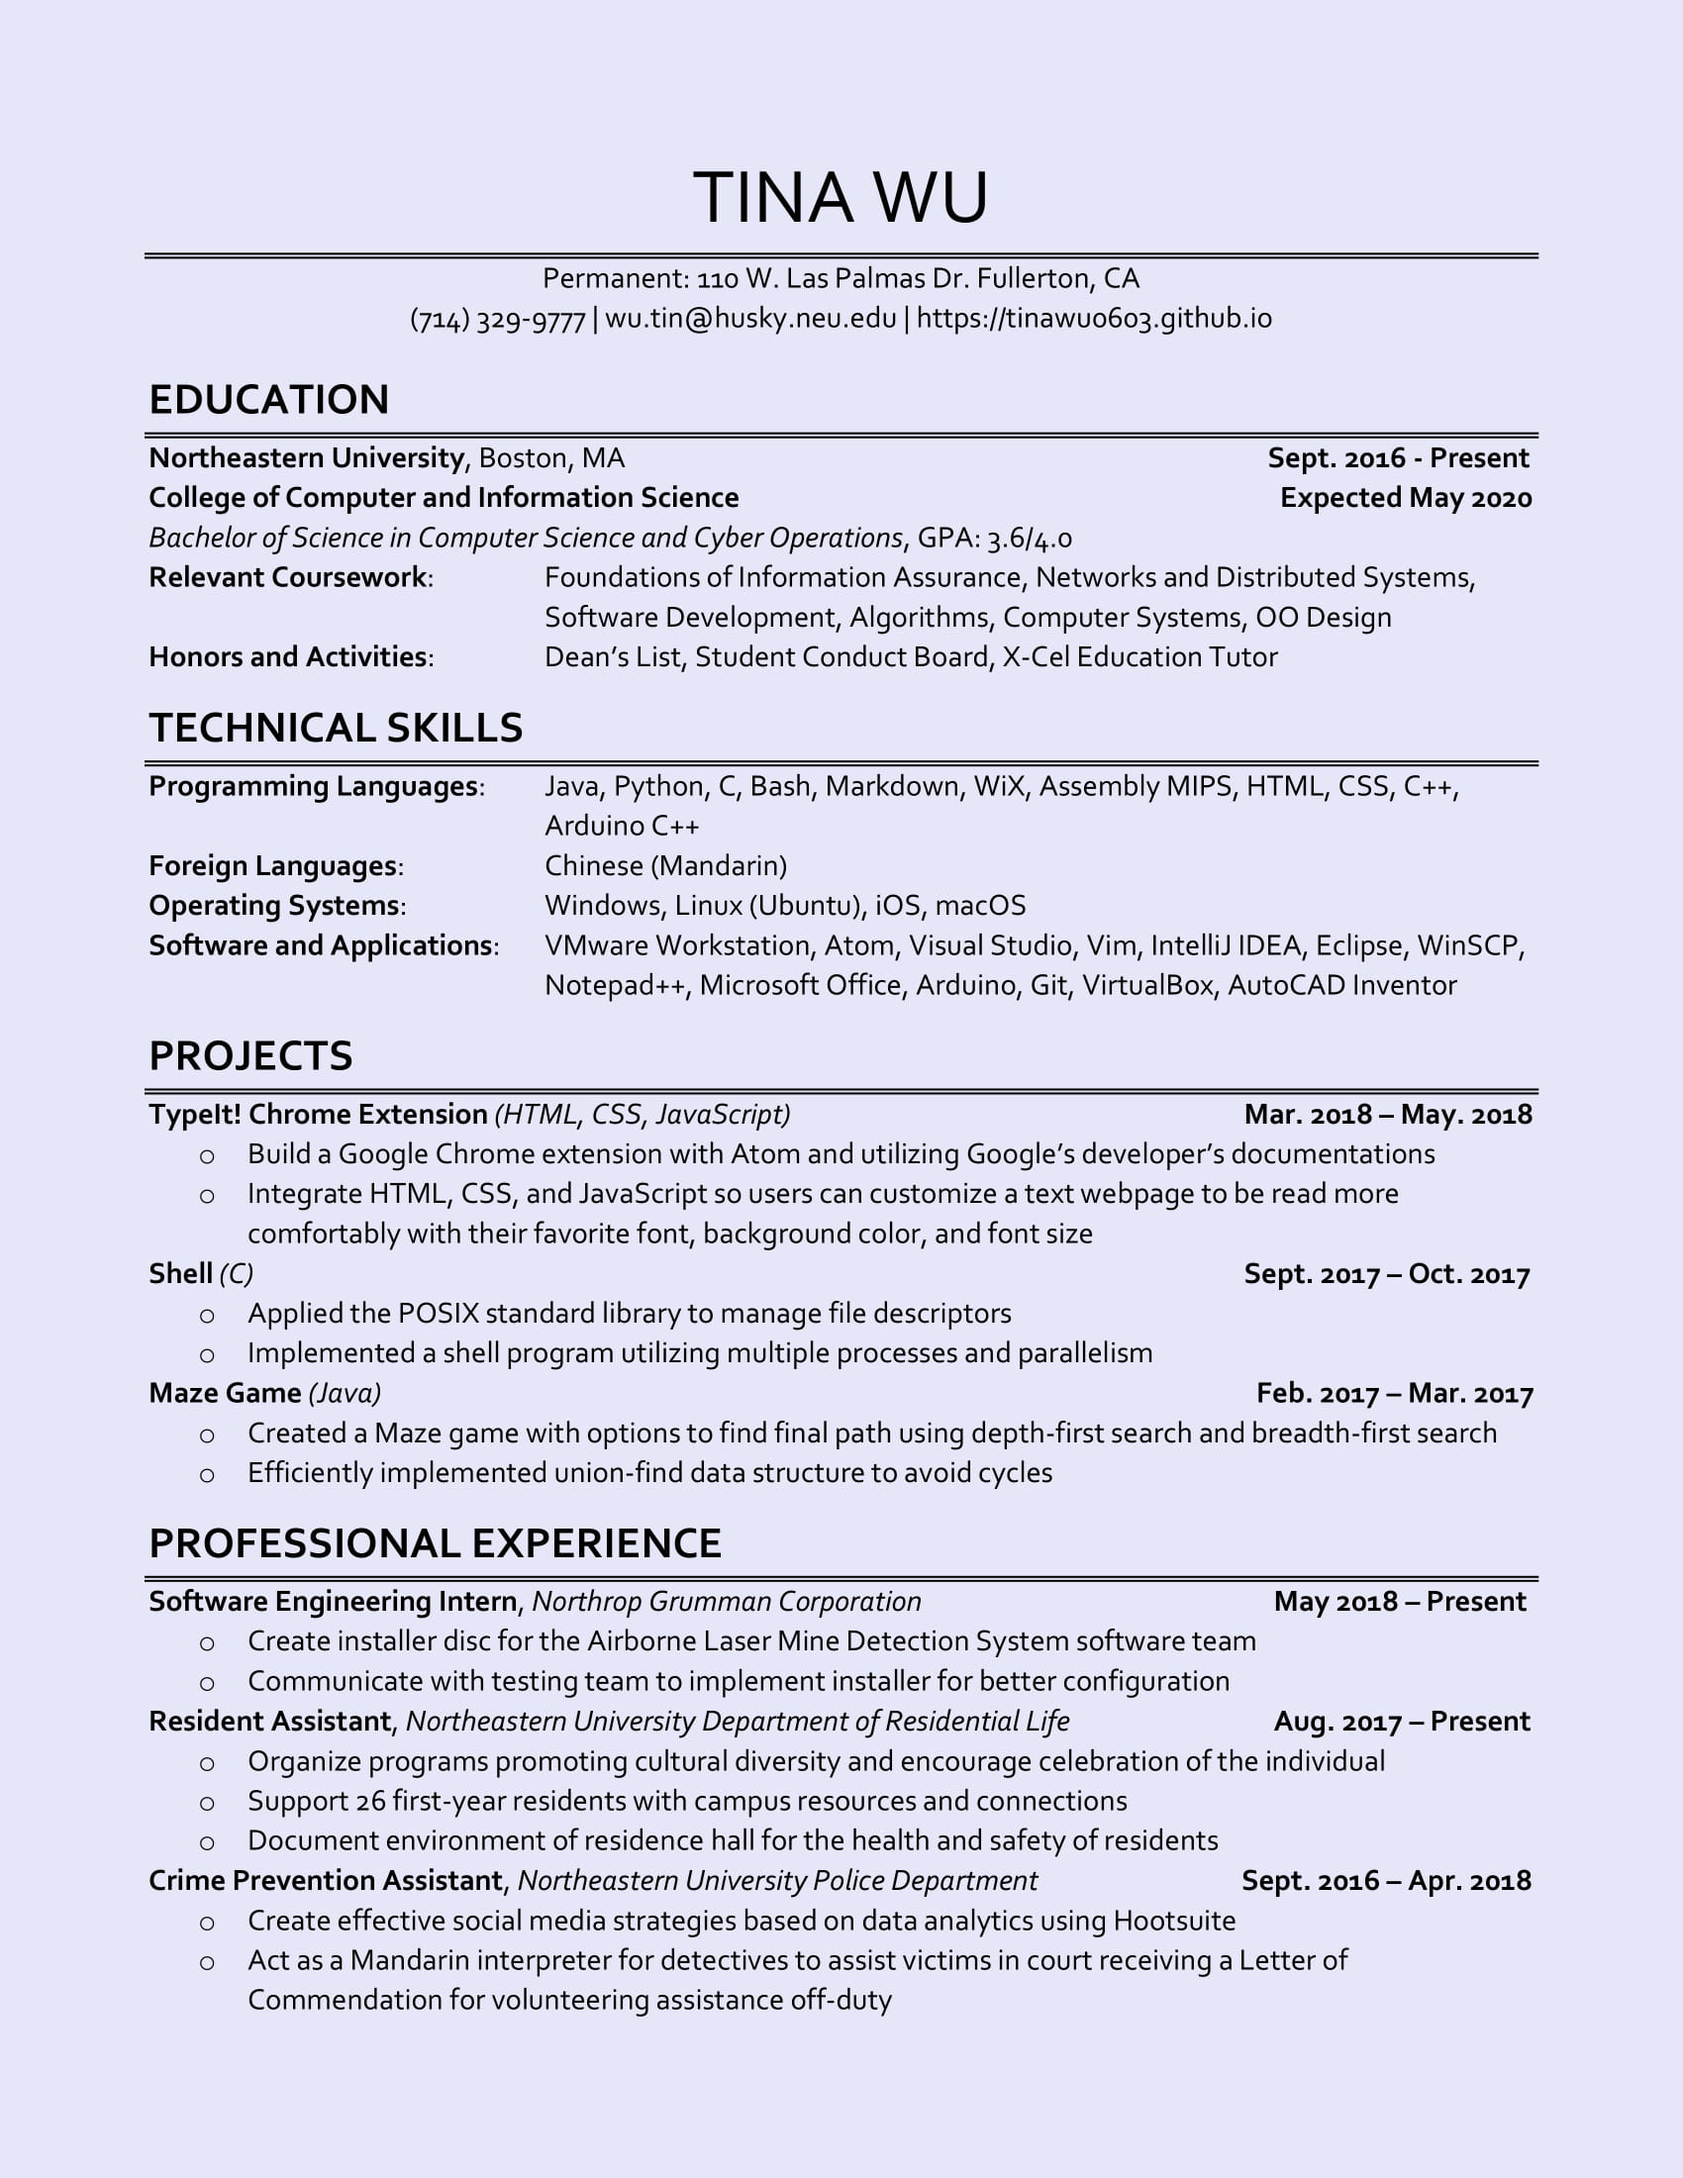
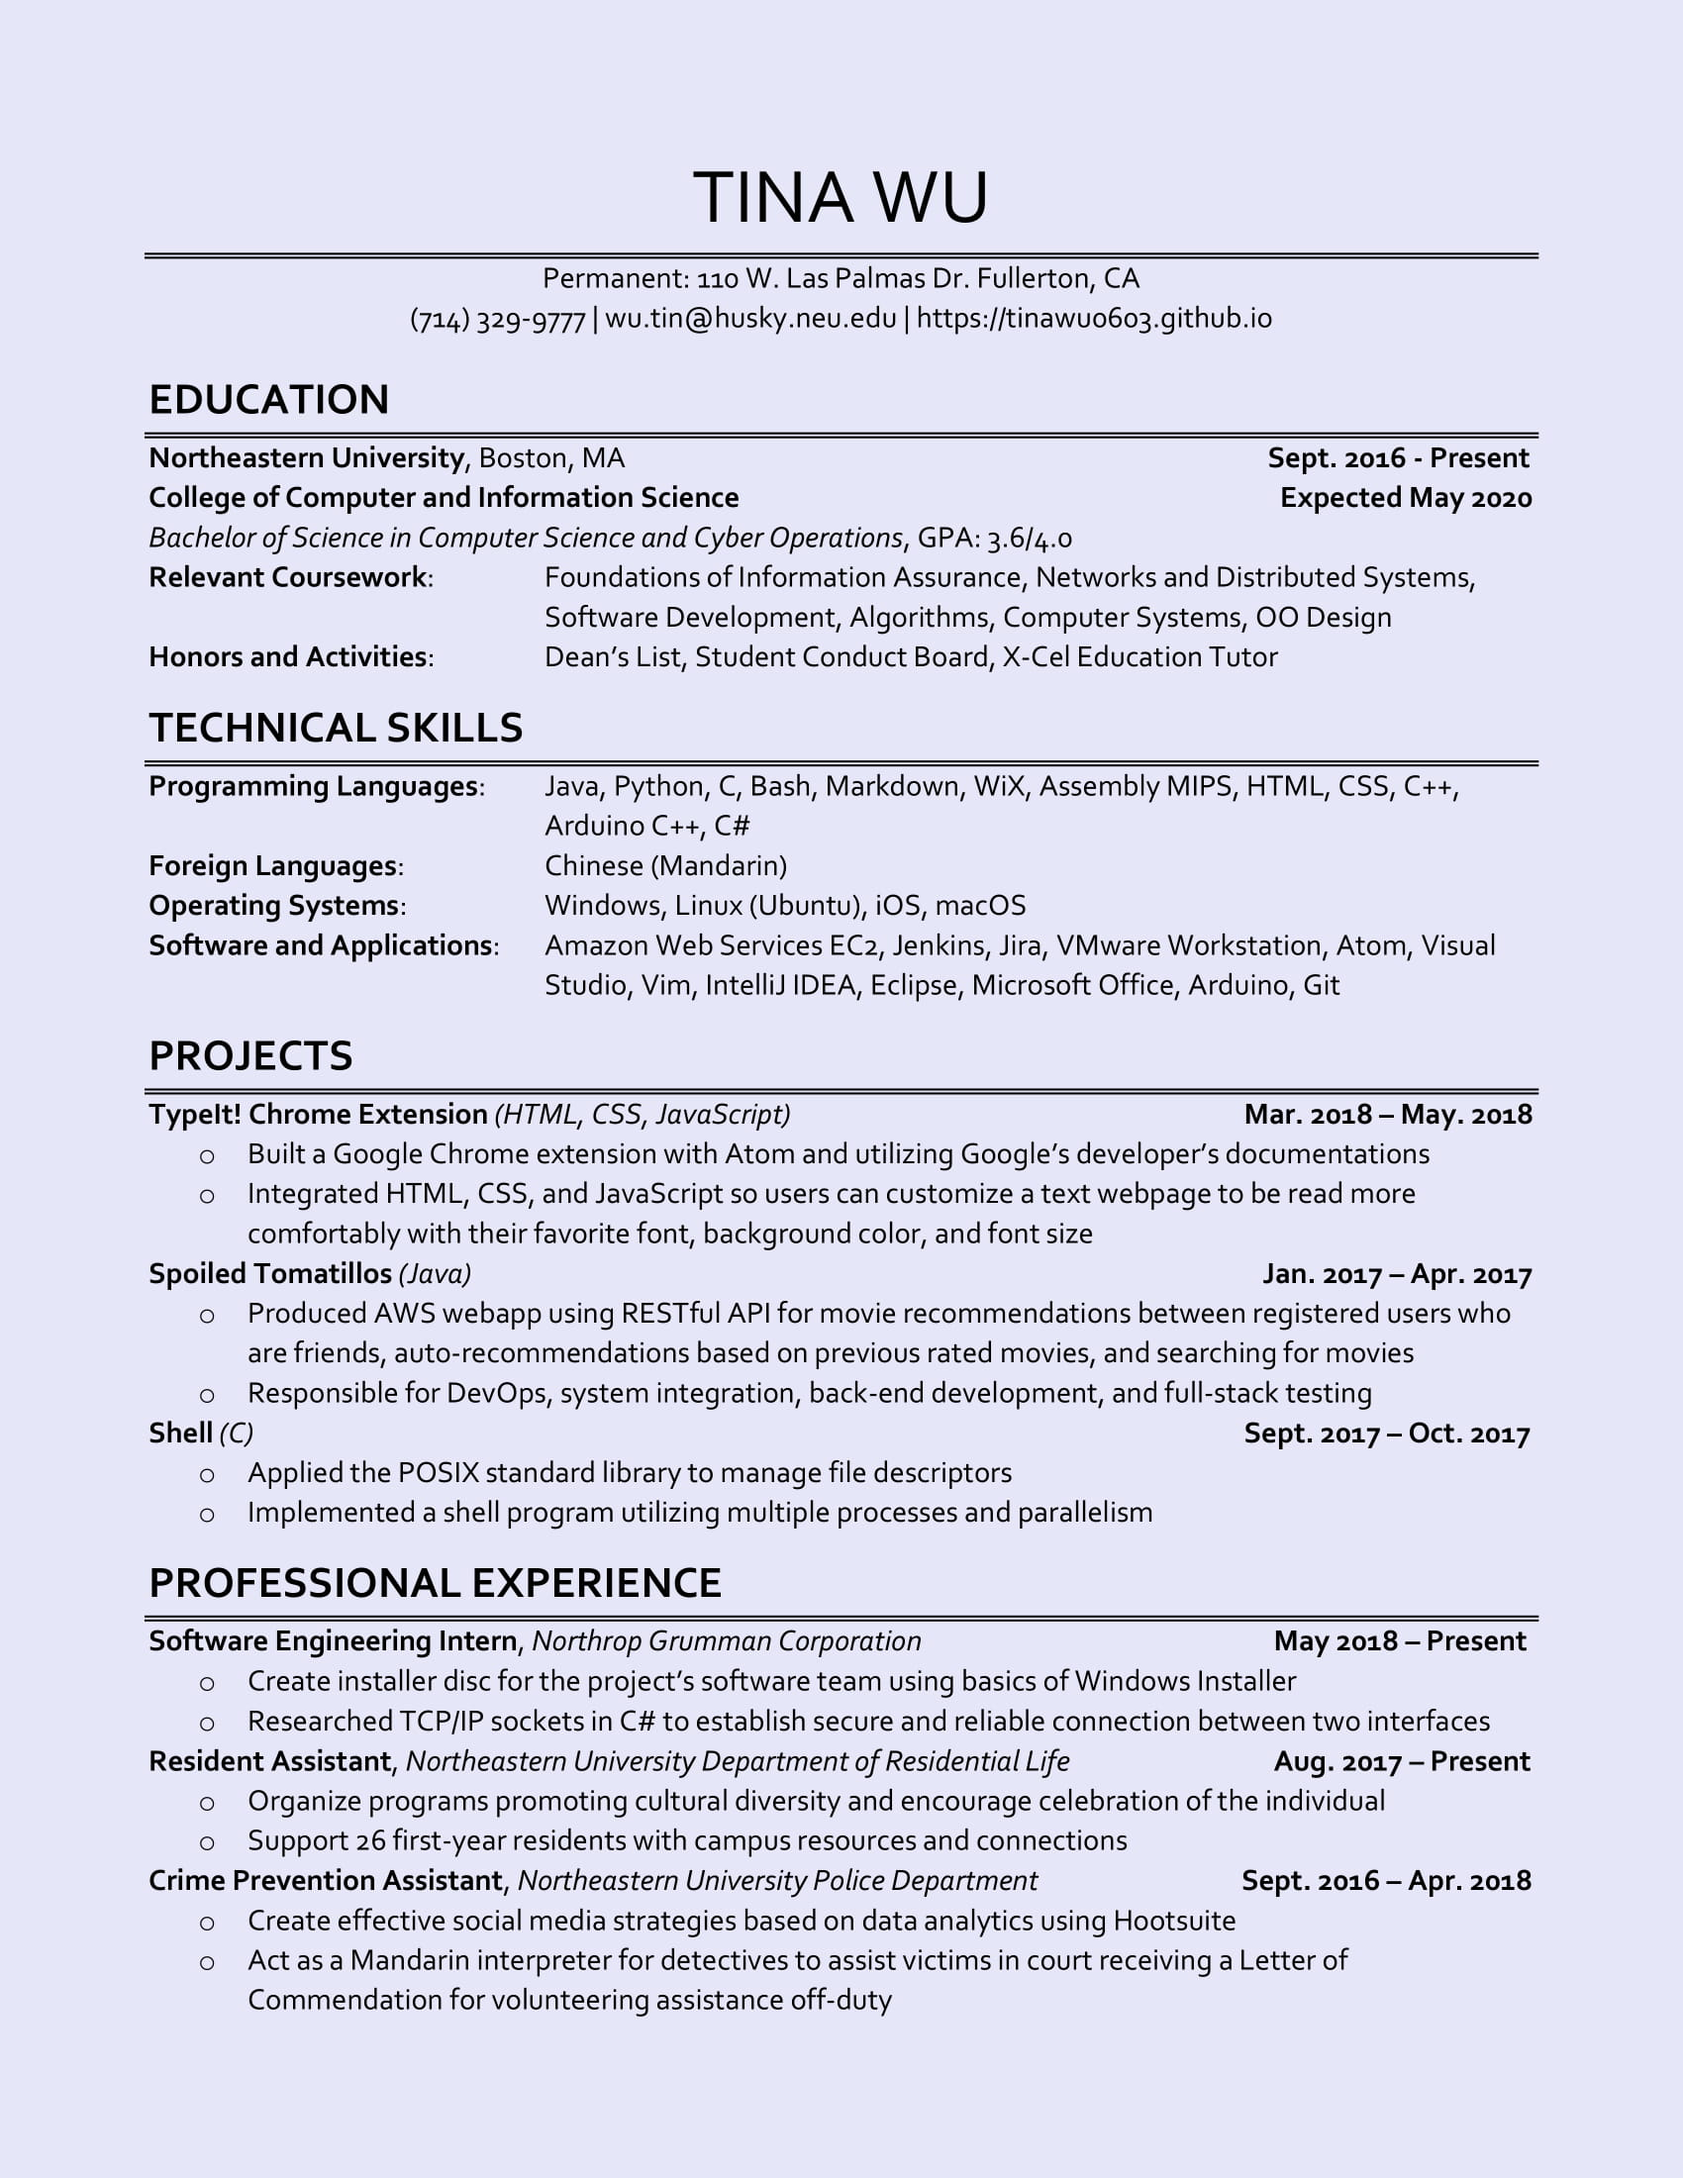
updated resume and about

Changed region(s): [[0.0935, 0.5255, 0.9041, 0.8655], [0.3118, 0.4327, 0.9041, 0.4636]]

diff --git a/index.html b/index.html
@@ -36,7 +36,7 @@
     <!-- introduction -->
     <p id="about" style="font-size:150%; line-height: 150%;">
       Hi!<br><br>
-      I'm Tina and I'm a second year Computer Science and Cyber Operations
+      I'm Tina and I'm a rising third year Computer Science and Cyber Operations
       major at Northeastern University. I'm also considering a minor in Criminal
       Justice. I'm interested in the field of cybersecurity and information
       assurance. I am extremely passionate about helping others and making a
